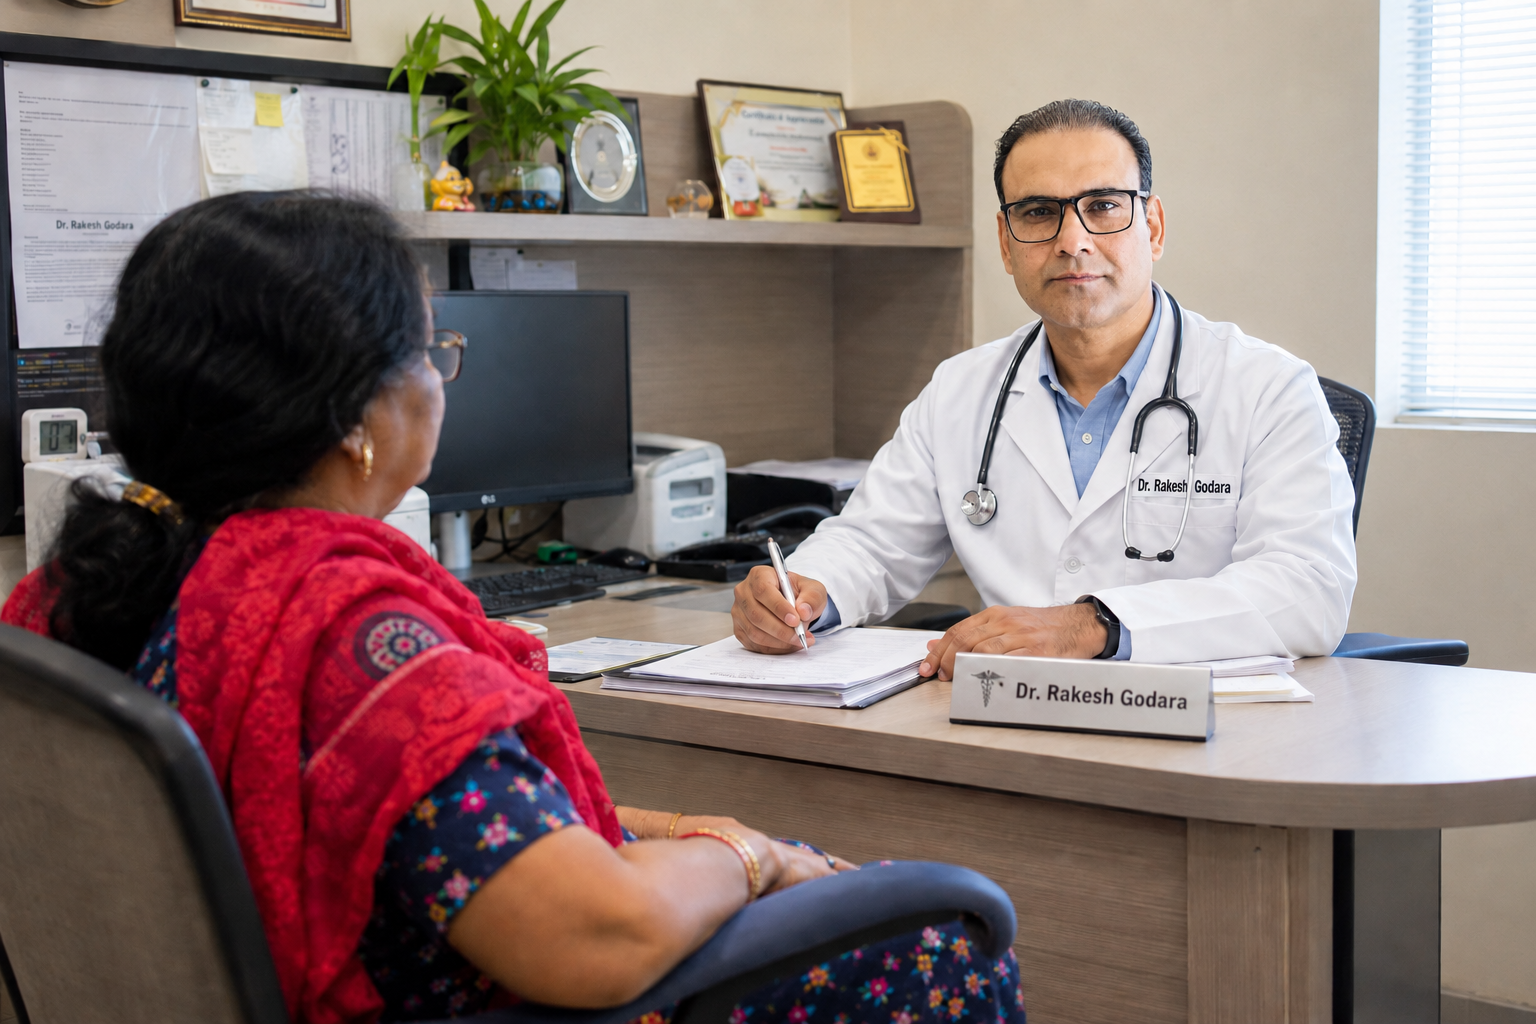
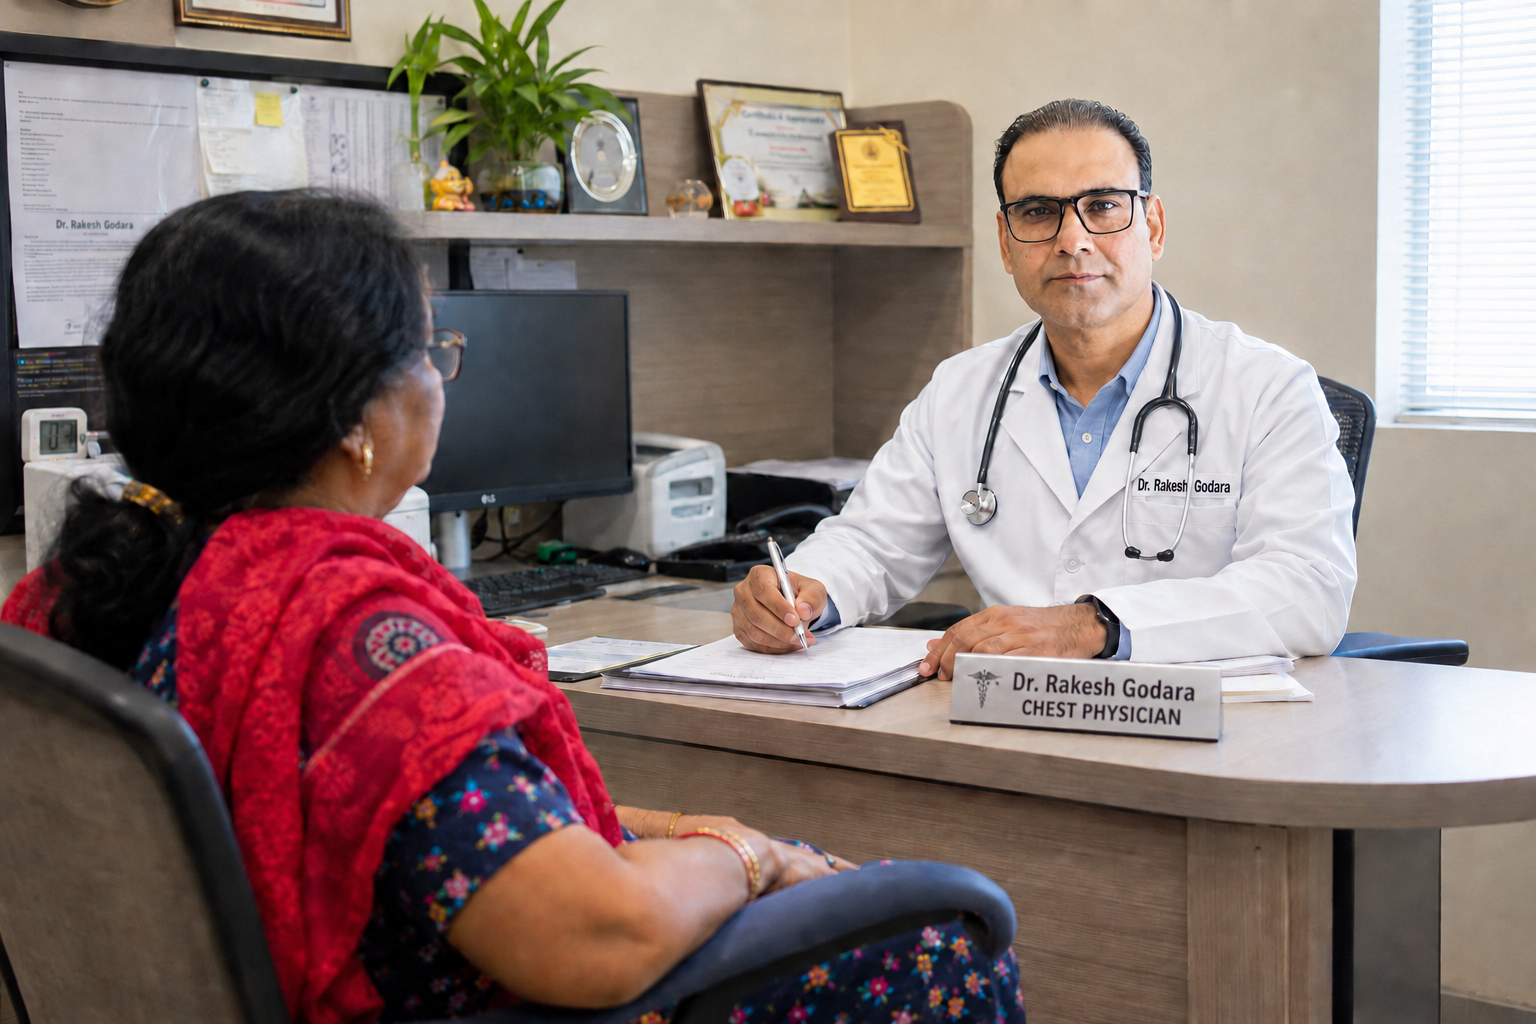
feat: add consultation_old asset, update consultation asset, and enhance professional journey and registration details

diff --git a/src/routes/index.tsx b/src/routes/index.tsx
@@ -63,6 +63,7 @@ import {
   APC_PHONE_TEL,
   APC_REGISTRATION,
   APC_REGISTRATION_LABEL,
+  APC_REGISTRATION_VALIDITY,
   APC_WHATSAPP_NUMBER,
   DOCTOR_DESIGNATION,
   DOCTOR_EXPERIENCE,
@@ -493,6 +494,21 @@ const EDUCATION = [
   },
 ];
 
+const REGISTRATIONS = [
+  {
+    title: "MBBS Registration",
+    sub: `Rajasthan Medical Council · Reg. No. ${APC_REGISTRATION} · 15-03-2005 · ${APC_REGISTRATION_VALIDITY}`,
+  },
+  {
+    title: "MD (Pulmonary Medicine)",
+    sub: "Additional Qualification Reg. No. 14786 · 27-06-2016",
+  },
+  {
+    title: "DNB (Critical Care Medicine)",
+    sub: "Additional Qualification Reg. No. 15791 · 16-03-2017",
+  },
+];
+
 const CERTIFICATIONS = [
   { title: "Advanced Trauma Life Support (ATLS)", year: "2012" },
   { title: "International Trauma Life Support (ITLS)", year: "2012" },
@@ -648,6 +664,25 @@ function About() {
                 </li>
               ))}
             </ol>
+          </div>
+          {/* Medical registration */}
+          <div className="mt-12">
+            <div className="text-[11px] font-bold uppercase tracking-[0.2em] text-[#8292a1]">
+              MEDICAL REGISTRATION
+            </div>
+            <ul className="mt-5 space-y-3">
+              {REGISTRATIONS.map((r) => (
+                <li
+                  key={r.title}
+                  className="rounded-2xl border border-border bg-card px-4 py-3 shadow-soft"
+                >
+                  <div className="text-sm font-semibold text-[#0a2540]">{r.title}</div>
+                  <div className="mt-0.5 text-xs leading-relaxed text-muted-foreground">
+                    {r.sub}
+                  </div>
+                </li>
+              ))}
+            </ul>
           </div>
           {/* Awards */}
           <div className="mt-12">
@@ -1760,6 +1795,8 @@ function Footer() {
           </div>
           <div>
             Registration: {APC_REGISTRATION} — {APC_REGISTRATION_LABEL}
+            <span className="mx-1.5 text-border">·</span>
+            {APC_REGISTRATION_VALIDITY}
           </div>
         </div>
       </div>

diff --git a/src/routes/__root.tsx b/src/routes/__root.tsx
@@ -95,21 +95,13 @@ export const Route = createRootRouteWithContext<{ queryClient: QueryClient }>()(
       },
       {
         property: "og:description",
-        content: `${DOCTOR_DESIGNATION}. ${DOCTOR_EXPERIENCE}`,
+        content: `${DOCTOR_NAME} — ${QUALIFICATIONS_SEO}. ${DOCTOR_DESIGNATION}. ${DOCTOR_EXPERIENCE}`,
       },
       { property: "og:type", content: "website" },
       { name: "twitter:card", content: "summary_large_image" },
       {
         name: "twitter:title",
         content: `${DOCTOR_NAME} — Pulmonology, Critical Care & Sleep Medicine, Jaipur`,
-      },
-      {
-        name: "description",
-        content: `${DOCTOR_NAME} — ${QUALIFICATIONS_SEO}. ${DOCTOR_DESIGNATION}. ${DOCTOR_EXPERIENCE}`,
-      },
-      {
-        property: "og:description",
-        content: `${DOCTOR_NAME} — ${QUALIFICATIONS_SEO}. ${DOCTOR_DESIGNATION}. ${DOCTOR_EXPERIENCE}`,
       },
       {
         name: "twitter:description",

diff --git a/src/components/professional-journey.tsx b/src/components/professional-journey.tsx
@@ -63,16 +63,17 @@ const MILESTONES: Milestone[] = [
     phase: 0,
     years: "1998 – 2004",
     title: "MBBS",
-    org: "SPMC & PBM Group of Hospitals, Bikaner",
-    detail: "Undergraduate medical education and internship.",
+    org: "S.P. Medical College, Bikaner · University of Rajasthan",
+    detail:
+      "Bachelor of Medicine and Bachelor of Surgery. Registered with the Rajasthan Medical Council (Reg. No. 23258) on 15 March 2005.",
     icon: GraduationCap,
   },
   {
     phase: 0,
     years: "Jun 2006 – Jun 2009",
     title: "MD — Pulmonary Medicine",
-    org: "PBM Group of Hospitals, Bikaner, Rajasthan",
-    detail: "Postgraduate specialisation alongside senior residency in pulmonary medicine.",
+    org: "S.P. Medical College / PBM Group of Hospitals, Bikaner, Rajasthan",
+    detail: "Postgraduate specialisation in pulmonary medicine.",
     icon: Stethoscope,
   },
   {

diff --git a/src/lib/site-content.ts b/src/lib/site-content.ts
@@ -18,8 +18,10 @@ export const APC_PHONE_DISPLAY = "+91 99286 83032";
 export const APC_PHONE_TEL = "+919928683032";
 export const APC_WHATSAPP_NUMBER = "919928683032";
 
-export const APC_REGISTRATION = "RMC023258";
-export const APC_REGISTRATION_LABEL = "Rajasthan Medical Council, 15-03-2005";
+/** Primary Rajasthan Medical Council MBBS registration (certificate No. 23258). */
+export const APC_REGISTRATION = "23258";
+export const APC_REGISTRATION_LABEL = "Rajasthan Medical Council · MBBS · 15-03-2005";
+export const APC_REGISTRATION_VALIDITY = "Renewed · valid until 14-03-2030";
 
 export const APC_ADDRESS =
   "C3–C4, Ashadeep Kingscourt, near Jeerota Petrol Pump, Jagatpura, Jaipur, Rajasthan 302022";
